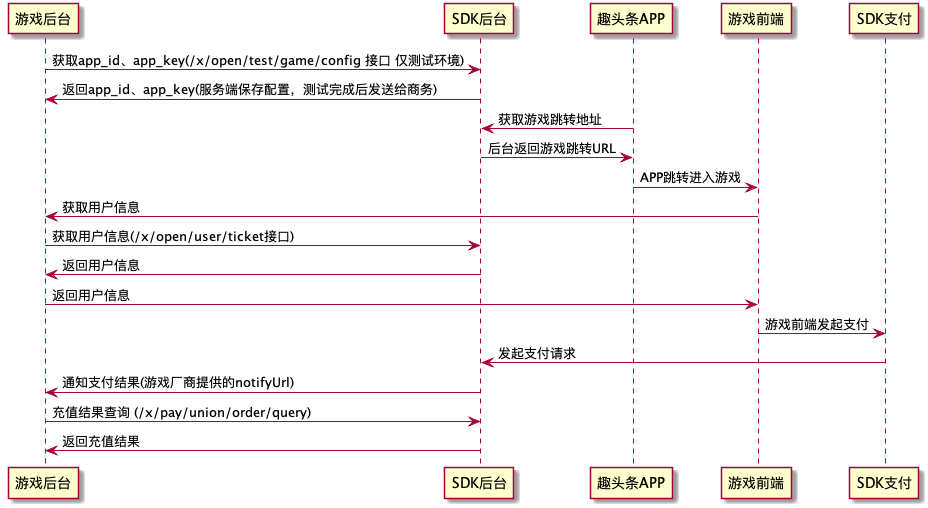
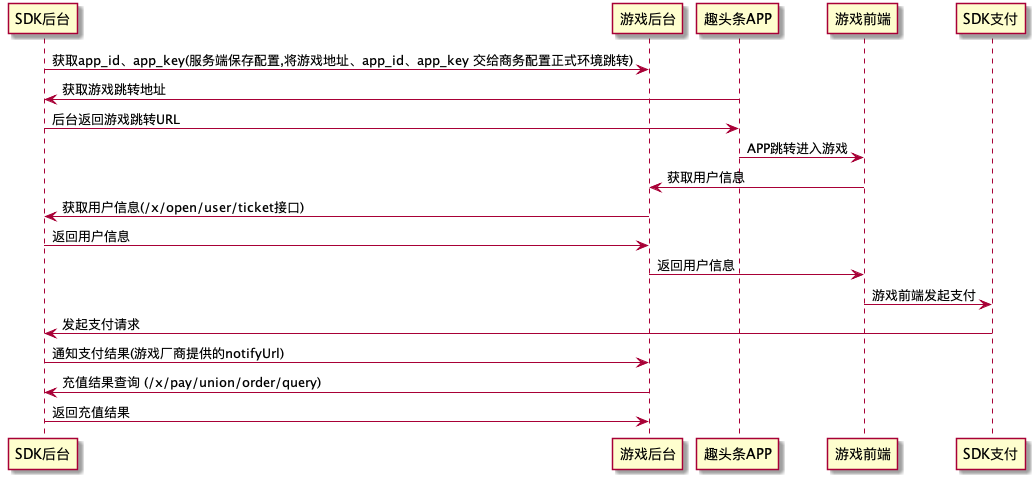
update doc

diff --git a/趣头条游戏测试流程文档.md b/趣头条游戏测试流程文档.md
@@ -2,15 +2,11 @@
 1. 测试验收 刘朝阳，微信号：350351448，QQ：350351448
 2. 技术支持 谢权，微信号：cort-xie，QQ：691118998
 ### 流程图
-![流程图](/out/sequence/test.png "流程图")
 
 ### 服务器地址
 #### 正式：https://newidea4-gamecenter-backend.1sapp.com
 
-### 获取游戏跳转测试地址
-#### 测试环境调试:
-[**http://newidea4-gamecenter-frontend.1sapp.com/sdk/test/game-connect.html**](http://newidea4-gamecenter-frontend.1sapp.com/sdk/test/game-connect.html)
-(测试参数在文档底部)
+
 #### 正式环境调试 :
 (游戏入口需要测试环境接入成功联系商务配置入口)
 [**https://newidea4-gamecenter-frontend.1sapp.com/game-test/pages/home/index.html?token=4263s4uIwIfz9jv1SI8snuijcuJnua4HCxH4KmxCk_qroHzGF_AHS3OkVCoBc5pcgIflLbcZY5Y**](https://newidea4-gamecenter-frontend.1sapp.com/game-test/pages/home/index.html?token=4263s4uIwIfz9jv1SI8snuijcuJnua4HCxH4KmxCk_qroHzGF_AHS3OkVCoBc5pcgIflLbcZY5Y)
@@ -55,143 +51,3 @@ HTTP 请求方式
 | notify_url | string |开发商回调地址                 |
 
 
-### 测试用uid
-
-```
-600020
-600030
-600040
-600050
-600060
-600070
-600080
-600090
-600100
-600110
-600120
-600130
-600140
-600021
-600031
-600041
-600051
-600061
-600071
-600081
-600091
-600101
-600111
-600121
-600131
-600141
-600013
-600023
-600033
-600043
-600053
-600063
-600073
-600083
-600093
-600103
-600113
-600123
-600133
-600143
-600014
-600024
-600034
-600044
-600054
-600064
-600074
-600084
-600094
-600104
-600114
-600124
-600134
-600144
-600015
-600025
-600035
-600045
-600055
-600065
-600075
-600085
-600095
-600105
-600115
-600125
-600135
-600145
-600006
-600016
-600026
-600036
-600046
-600056
-600066
-600076
-600086
-600096
-600106
-600116
-600126
-600136
-600146
-600017
-600027
-600037
-600047
-600057
-600067
-600077
-600087
-600097
-600107
-600117
-600127
-600137
-600147
-600018
-600028
-600038
-600048
-600058
-600068
-600078
-600088
-600098
-600108
-600118
-600128
-600138
-600019
-600029
-600039
-600049
-600059
-600069
-600079
-600089
-600099
-600109
-600119
-600129
-600139
-```
-测试用token（每行一个）
-
-```
-4263s4uIwIfz9jv1SI8snuijcuJnua4HCxH4KmxCk_qroHzGF_AHS3OkVCoBc5pcgIflLbcZY5Y
-
-c6b5F9WXhb13_4hsT8I2Wgy4bRqsTsX2-NXn-UGiqwupA5rqXX9rb13_Nru-wqfnc64GVmHn0LI
-
-6a38Ksppk6jh8ulIgTqvJnm6yAbf8d6QfMy2f5a5uMEe8O8D2R2ngL_cPg61qJDHS7w5oWtJP5A
-
-98e7rf4BzR9HTmW7Y-z7BM-jua2Jz4ElHEXvMb8qwo1iPBScbweQIAjrQtXsm0o3I_PH4PNi4vI
-
-98a3MSOTxdn0-lcVDnuLoe6IHTgLJzxF-LSS1e4fN_inlb2Djq3XzFeCICvsxkw6dNH3_G6Svr8
-```

diff --git a/趣头条游戏中心接入文档.md b/趣头条游戏中心接入文档.md
@@ -5,10 +5,8 @@
 3. 按照本文档的说明，打通两边账户、充值
 4. **希望接入方能够提供1分钱的充值入口，方便我们充值测试**
 ### 时序图
-![时序图](/out/sequence/sequence.png "时序图")
-### 服务器地址
 
-#### 测试：http://newidea4-gamecenter-backend.qttcs3.cn
+### 服务器地址
 
 #### 正式：https://newidea4-gamecenter-backend.1sapp.com
 
@@ -22,54 +20,6 @@
 | 10005  | platform不支持 |
 | 10006  | sign错误       |
 
-### app_id、app_key自主获取（仅需要测试环境获取）
-注意：<font color=#FF0000>通过这个接口返回的完整 json，在测试环境自测通过后，发给趣头条开发人员，然后由趣头条的工作人员测试，审核，然后上线</font>
-
-示例请求地址：http://newidea4-gamecenter-backend.qttcs3.cn/x/open/test/game/config?name=哈哈&url=http://baidu.com
-
-请求地址
-> /x/open/test/game/config
-
-HTTP 请求方式
-> GET
-
-注意
-> 仅需要测试环境获取
-
-参数
-
-| key  | 必选 | 类型   | 说明     |
-| :--- | :--- | :----- | -------- |
-| name | true | string | 项目名   |
-| url  | true | string | 项目地址 |
-
-返回示例
-
-```
-
-{
-  "name": "哈哈da",
-  "source": "union",
-  "type": "pay",
-  "url": "http://baidu.com",
-  "open": {
-    "app": {
-      "id": "a3xNMmCBoKtW",
[1 lines of base64/hex data omitted]
-    }
-  }
-}
-
-```
-返回参数说明
-
-再次重申，<font color=#FF0000>通过这个接口返回的完整 json，在测试环境自测通过后，发给趣头条开发人员，然后由趣头条的工作人员测试，审核，将获取的app_id、app_key 配置在线上环境</font>
-
-
-| key          | 必选 | 类型   | 说明    |
-| :----------- | :--- | :----- | ------- |
-| open.app.id  | true | string | app_id  |
-| open.app.key | true | string | app_key |
 
 ### 好消息
 <font color=#FF0000>通信加密的算法（sign的生成方式），在“通信加密方式”章节，有go、java、php、js四种语言的demo（其他语言持续更新中），复制下即可搞定sign的算法</font>
